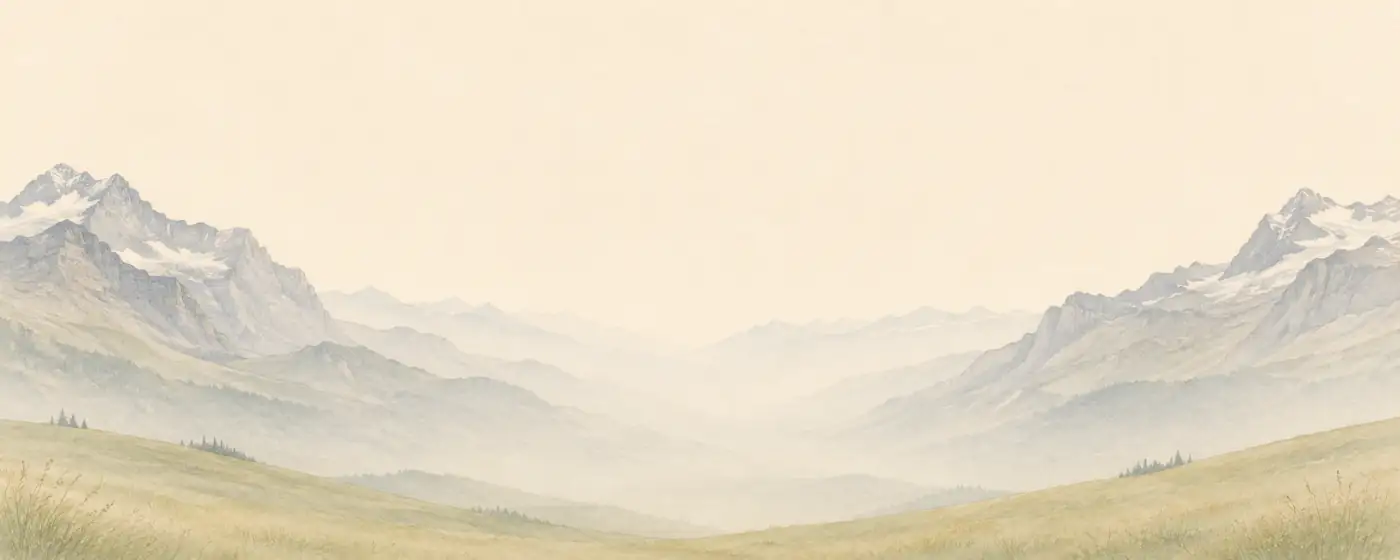
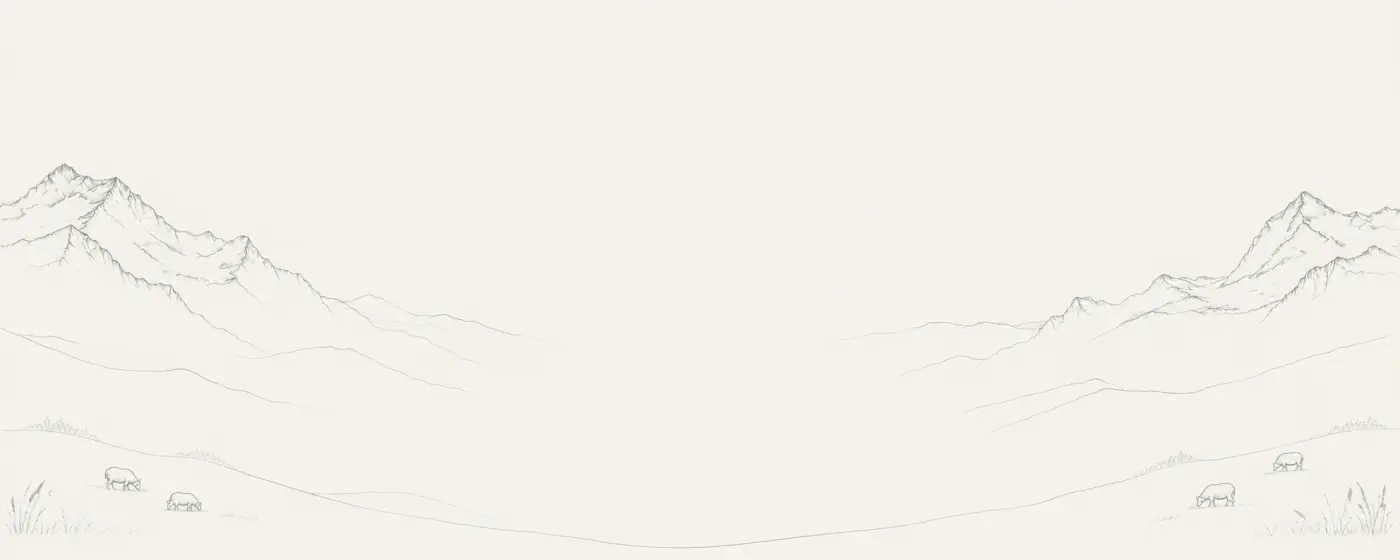
Add faint monochrome Alpine scenery behind the studio

diff --git a/yodel/style.css b/yodel/style.css
@@ -27,7 +27,7 @@ body {
   margin: 0;
   min-height: 100svh;
   background:
-    linear-gradient(var(--paper), color-mix(in srgb, var(--paper) 85%, transparent) 36%) center bottom / 100% var(--landscape-height) no-repeat,
+    linear-gradient(var(--paper), color-mix(in srgb, var(--paper) 82%, transparent) 36%) center bottom / 100% var(--landscape-height) no-repeat,
     url("./alpine-meadow.webp") left bottom / auto var(--landscape-height) no-repeat;
 }
 @media (forced-colors: active), print {
